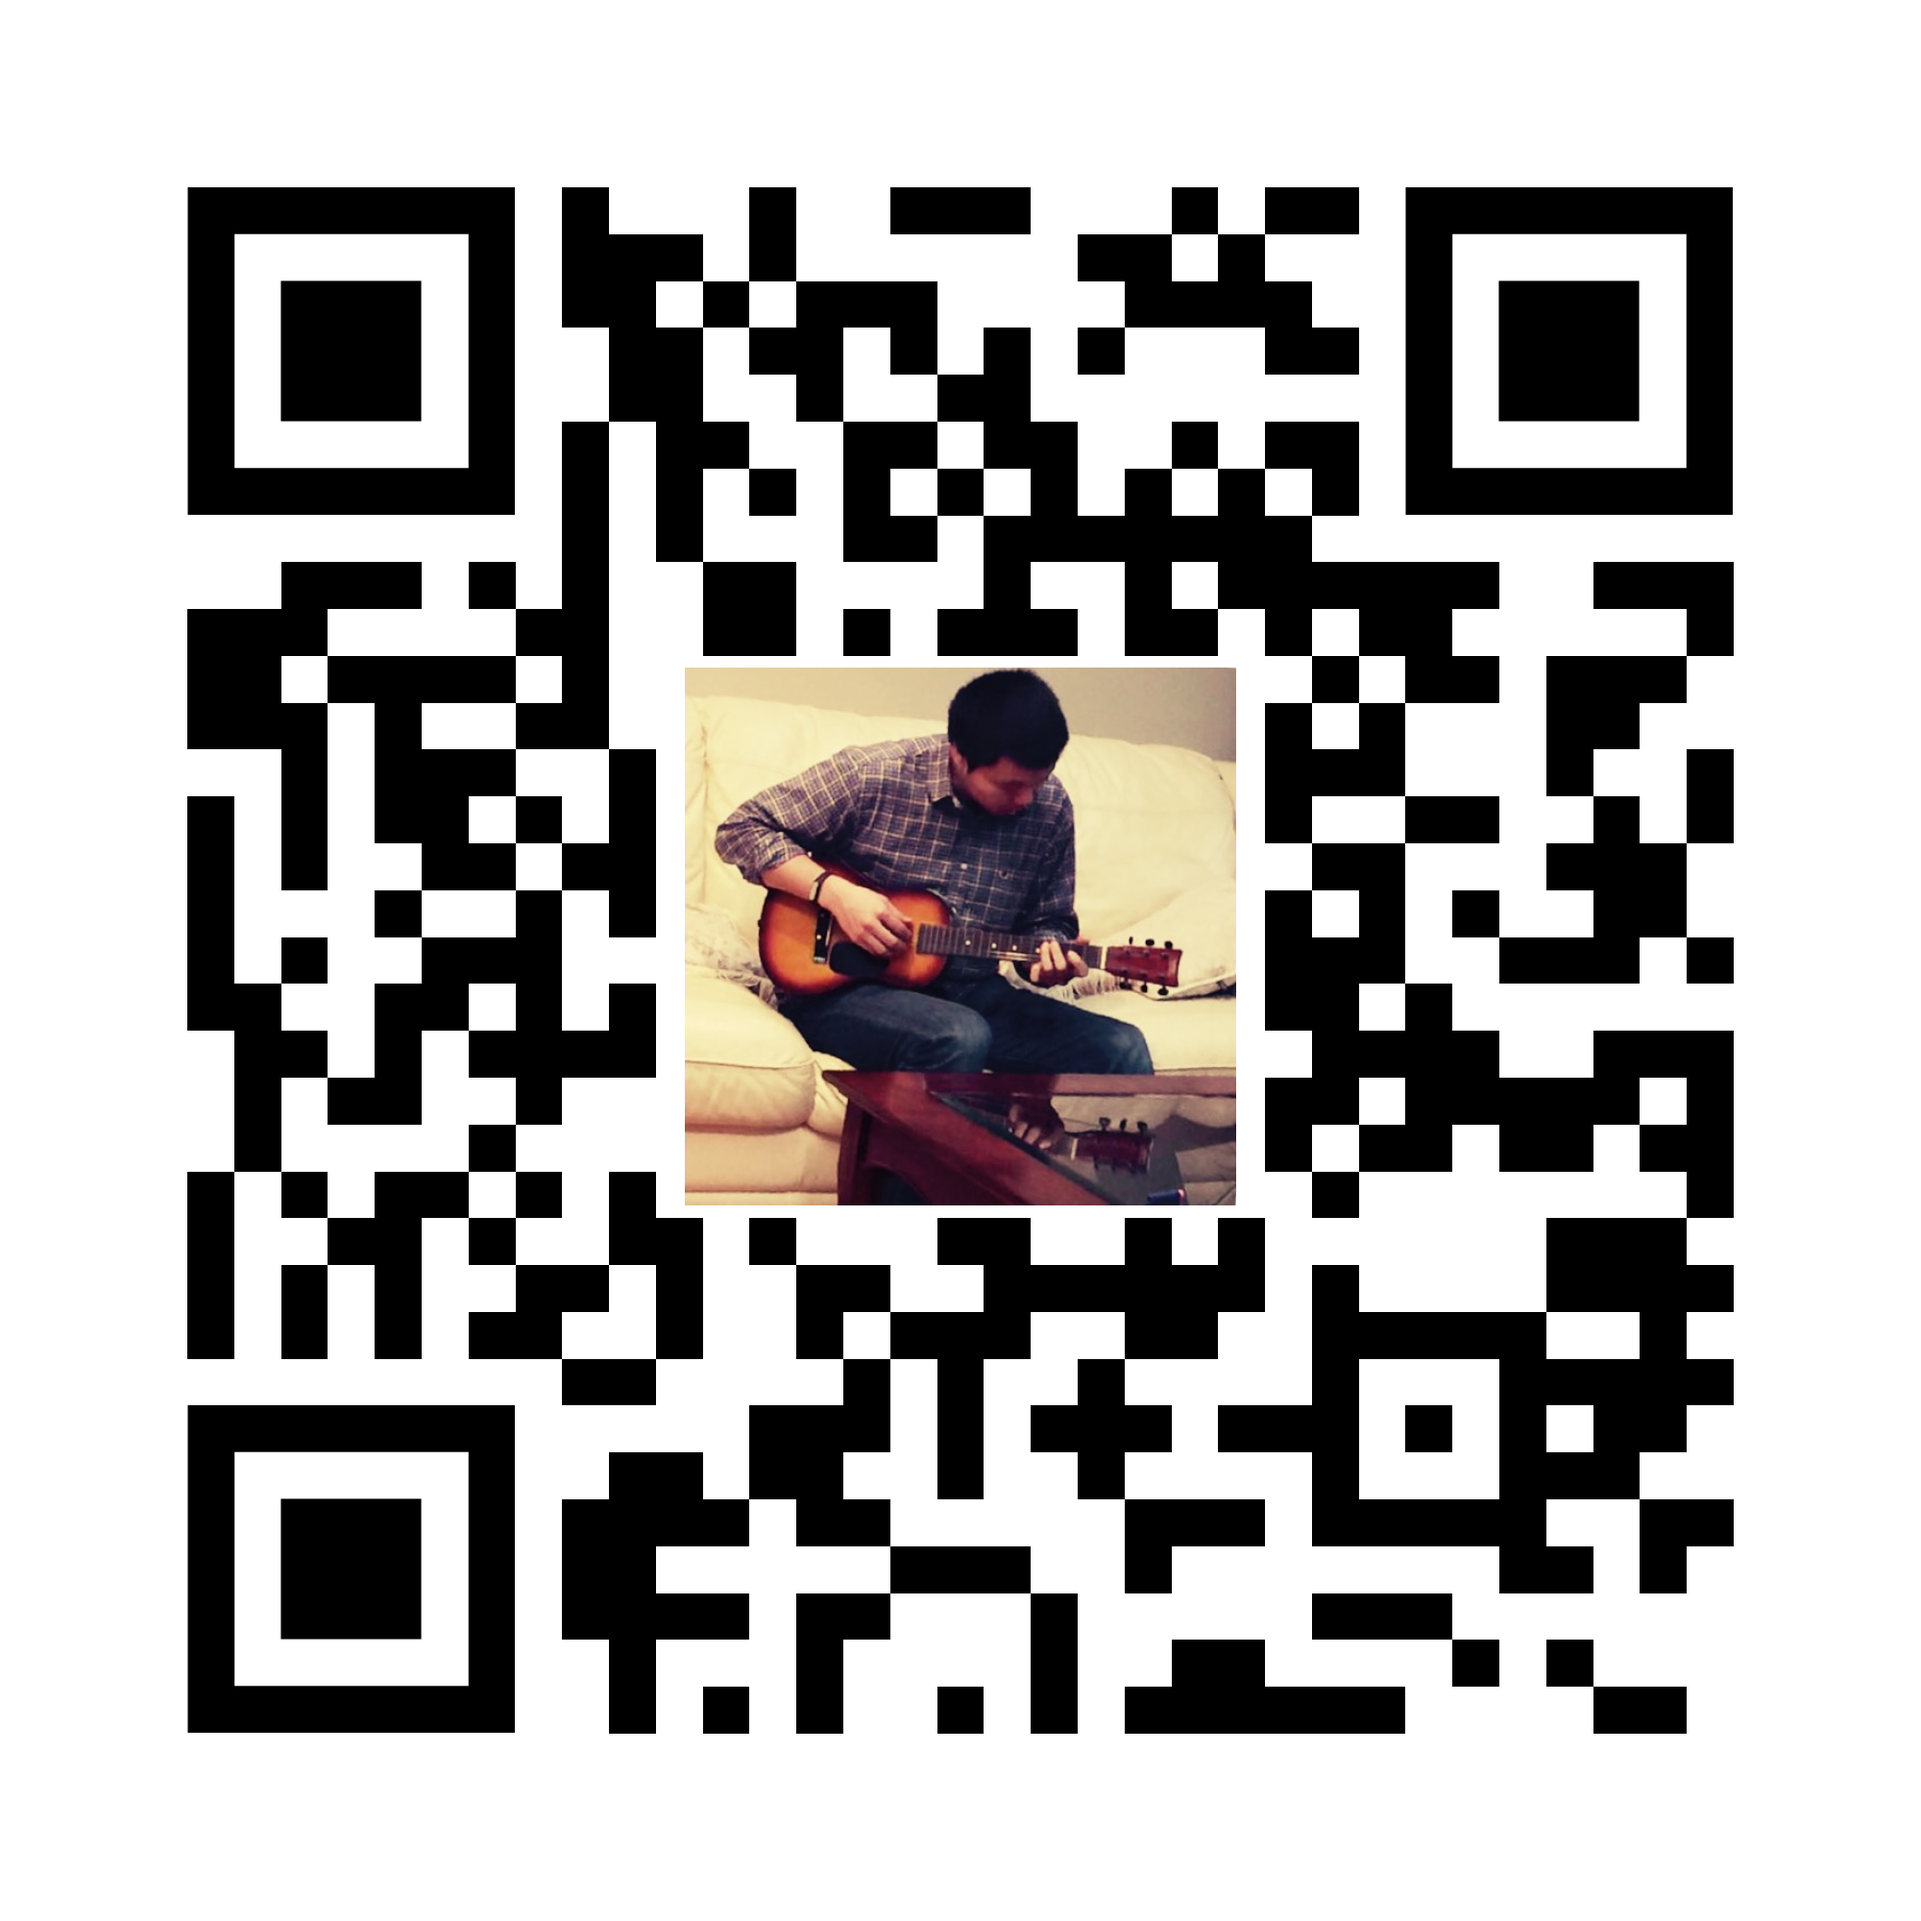
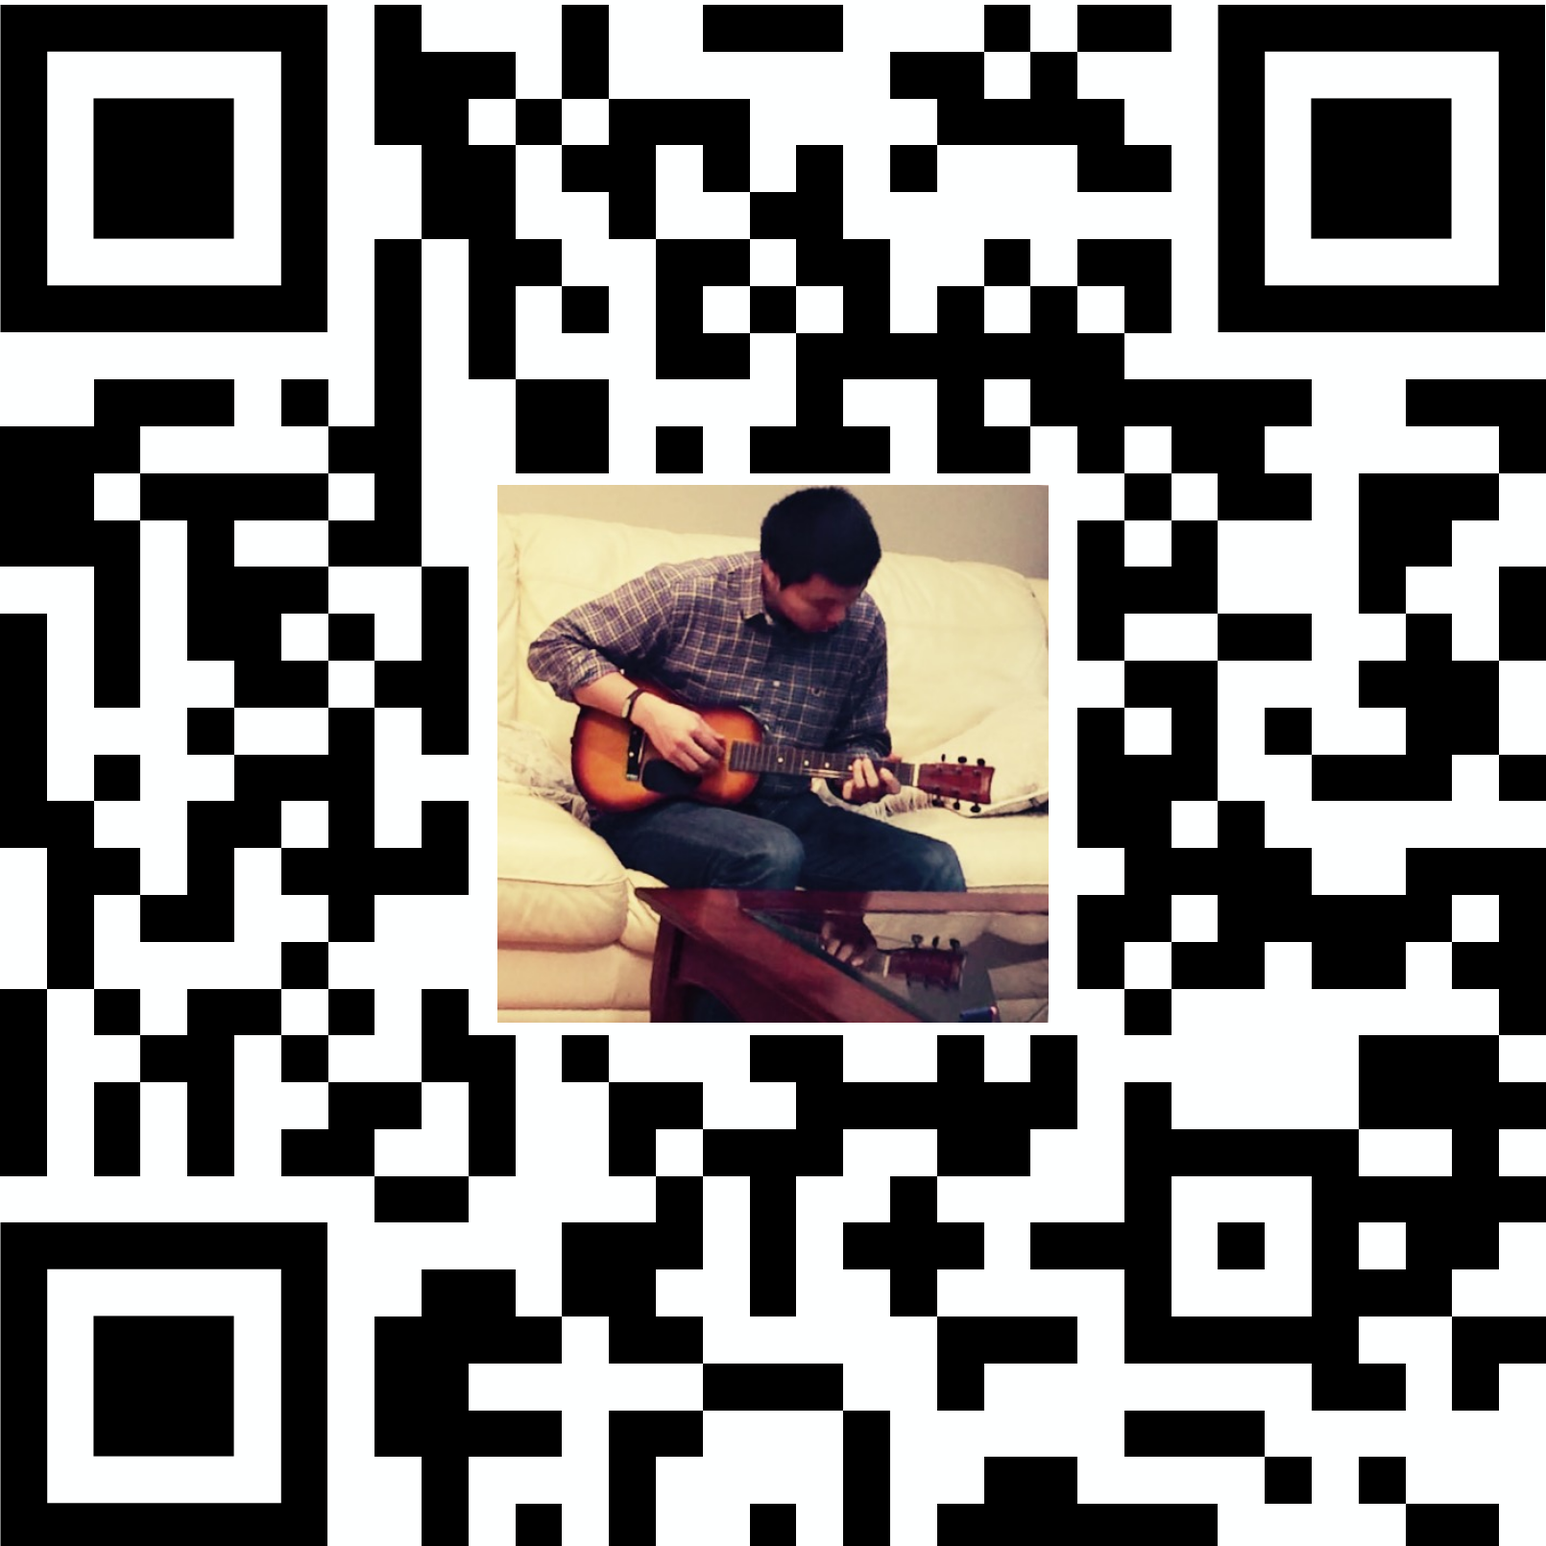
qrcode updated

diff --git a/skills/index.html b/skills/index.html
@@ -122,6 +122,12 @@
         <p>
             The above diagram is created using <a href="http://getbootstrap.com/"><!--&copy; Bootstrap--><img src='/pic/bootstrap_logo.png' alt='github_logo' style='width:100px;height:42px;'></a>.
         </p>  
+        
+        <a href='/pic/qr.png' target="qr">
+            <img src='/pic/qr.png' alt='qr' style='width:100px;height:100px;'></img>
+        </a>
+        <br><br>
+        
         <p><a href="#top">Go to top</a></p>
         
         <footer>
